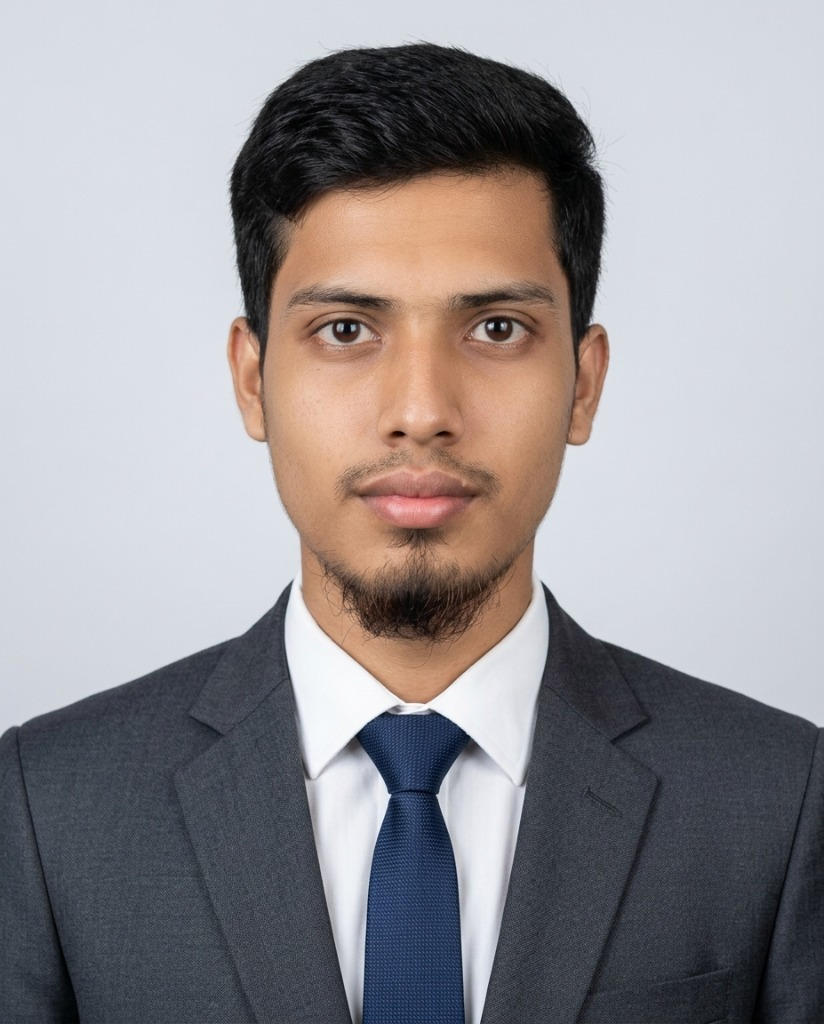
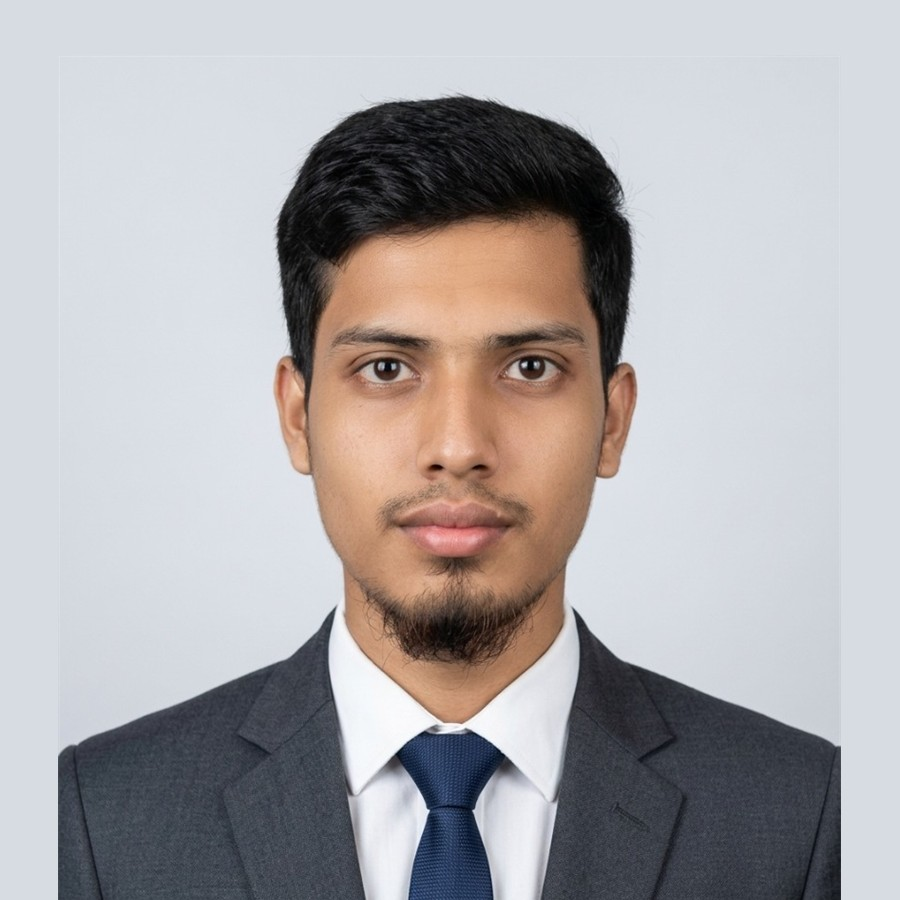
fix(team): adjust photo framing, top headroom and overlay for Abdur Rahman At Tarak

diff --git a/higzendev-frontend/src/components/TeamSection.tsx b/higzendev-frontend/src/components/TeamSection.tsx
@@ -78,7 +78,7 @@ const TeamMember = ({
               <img
                 src={imagePath}
                 alt={name}
-                className="object-cover h-full w-full transition-transform duration-700 group-hover:scale-110"
+                className="object-cover object-top h-full w-full transition-transform duration-700 group-hover:scale-105"
               />
             ) : (
               <div className="h-full w-full flex items-center justify-center bg-gradient-to-br from-primary/30 via-secondary/20 to-accent/30 relative overflow-hidden">
@@ -95,7 +95,7 @@ const TeamMember = ({
           </AspectRatio>
 
           {/* Bottom gradient overlay for legibility */}
-          <div className="absolute inset-x-0 bottom-0 h-2/3 bg-gradient-to-t from-[#0d1117] via-[#0d1117]/70 to-transparent pointer-events-none"></div>
+          <div className="absolute inset-x-0 bottom-0 h-1/4 bg-gradient-to-t from-[#0d1117] via-[#0d1117]/30 to-transparent pointer-events-none"></div>
 
           {/* Fun Fact Tooltip */}
           {funFact && (
